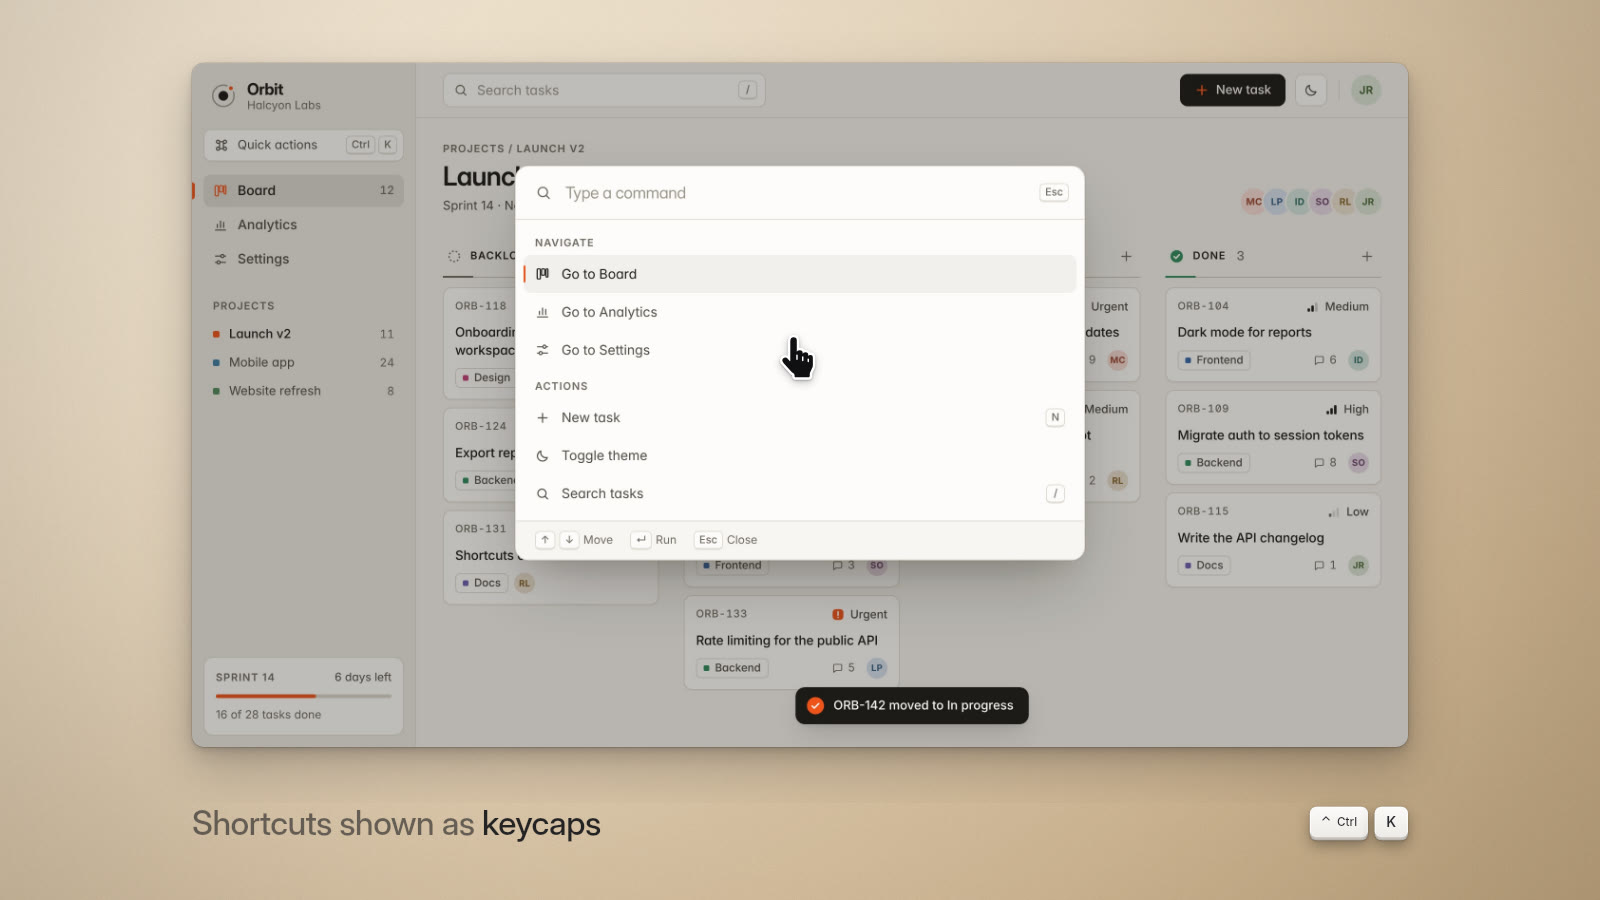
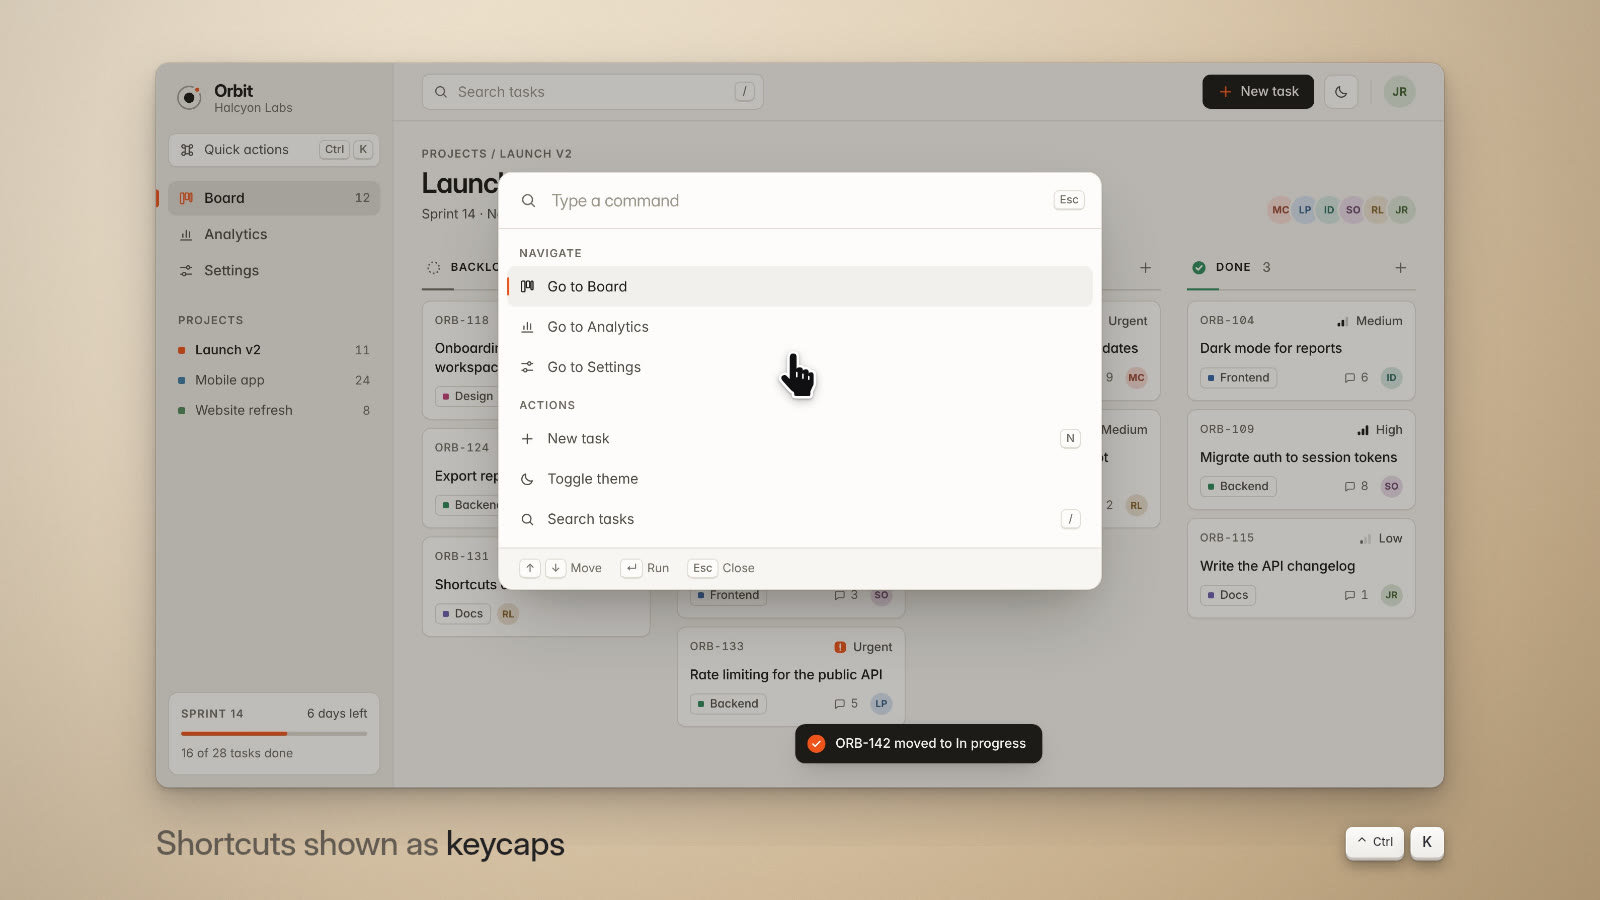
Make the caption band only as high as its lines need

Changed region(s): [[0.0938, 0.0622, 0.9062, 0.9644], [0.4688, 0.3733, 0.5312, 0.4356], [0.2812, 0.0933, 0.3438, 0.1244]]

diff --git a/src/render/scene.ts b/src/render/scene.ts
@@ -15,7 +15,15 @@ import {
   type CameraTrack,
   type FitRegion,
 } from './camera.ts';
-import { bandAt, bandTrack, planCaptions, type CaptionCue } from './captions.ts';
+import {
+  bandAt,
+  bandTrack,
+  CAPTION_WIDTH,
+  captionMeasure,
+  layoutCaption,
+  planCaptions,
+  type CaptionCue,
+} from './captions.ts';
 import { computeLayout, type CursorFrame, type FrameInput, type Layout } from './compositor.ts';
 import { clickMarks, computeCursor, type ClickMark, type CursorTrack } from './cursor.ts';
 import { resolveOptions, type ResolvedOptions } from './defaults.ts';
@@ -98,7 +106,7 @@ export function buildScene(session: Session, options?: RenderOptions, extraTime?
   const { cues, groups } = planCaptions(
     events.filter((e): e is TimedEvent<CaptionEvent> => e.type === 'caption'),
   );
-  const band = cues.length ? bandLayout(layout, resolved.captions.position) : null;
+  const band = captionBand(cues, layout, resolved);
   const camera = computeCamera(
     times,
     zooms,
@@ -138,6 +146,26 @@ export function buildScene(session: Session, options?: RenderOptions, extraTime?
     bandOpen: bandTrack(times, groups),
     frameIndex,
   };
+}
+
+/**
+ * Band geometry for the captions, or null without captions. The band has the height for
+ * one line unless a caption needs two lines.
+ */
+function captionBand(
+  cues: CaptionCue[],
+  layout: Layout,
+  options: ResolvedOptions,
+): BandLayout | null {
+  if (cues.length === 0) return null;
+  const { position, fontFamily, fontSize } = options.captions;
+  const measure = captionMeasure(fontFamily);
+  const band = bandLayout(layout, position, 1);
+  const width = band.window.width * CAPTION_WIDTH;
+  const lines = cues.map(
+    (cue) => layoutCaption(cue.text, measure, width, fontSize * layout.unit).lines.length,
+  );
+  return Math.max(...lines) > 1 ? bandLayout(layout, position, 2) : band;
 }
 
 /**

diff --git a/src/render/stage.ts b/src/render/stage.ts
@@ -14,9 +14,10 @@ export interface StageTransform {
 export const IDENTITY: StageTransform = { scale: 1, x: 0, y: 0 };
 
 /**
- * Band height as a fraction of the short side of the output.
+ * Band height as a fraction of the short side of the output, for captions of one line
+ * and for captions of two lines.
  */
-const BAND = 0.17;
+const BAND = [0.125, 0.17];
 
 /**
  * Where things go when the caption band is fully open.
@@ -38,11 +39,12 @@ export interface BandLayout {
 /**
  * The band takes the place of the padding on its side and grows it to BAND of the short
  * side; the window (chrome and shadow included) scales down uniformly to fit the rest.
+ * `lines` is the line count of the tallest caption: the band is only as high as it needs.
  */
-export function bandLayout(layout: Layout, side: 'bottom' | 'top'): BandLayout {
+export function bandLayout(layout: Layout, side: 'bottom' | 'top', lines = 2): BandLayout {
   const { width: W, height: H } = layout.size;
   const pad = layout.padding;
-  const height = BAND * Math.min(W, H);
+  const height = BAND[lines > 1 ? 1 : 0] * Math.min(W, H);
   const w0 = layout.window;
   const availW = W - 2 * pad;
   const availH = H - height - pad;

diff --git a/src/render/captions.ts b/src/render/captions.ts
@@ -1,4 +1,4 @@
-import type { SKRSContext2D } from '@napi-rs/canvas';
+import { createCanvas, type SKRSContext2D } from '@napi-rs/canvas';
 import type { CaptionEvent } from '../types.ts';
 import { rgba, type Rgba } from './color.ts';
 import { clamp, easing, smoothstep } from './easing.ts';
@@ -241,8 +241,25 @@ const easeOutQuart = (t: number) => 1 - (1 - clamp(t, 0, 1)) ** 4;
 const easeOutCubic = (t: number) => 1 - (1 - clamp(t, 0, 1)) ** 3;
 const sweep = easing('smooth');
 
-export function captionFont(style: CaptionStyle, size: number): string {
+export function captionFont(style: Pick<CaptionStyle, 'family'>, size: number): string {
   return `500 ${size}px "${style.family}"`;
+}
+
+/**
+ * Share of the window width that a caption can take.
+ */
+export const CAPTION_WIDTH = 0.72;
+
+/**
+ * Width of text in the caption font, for `layoutCaption`.
+ */
+export function captionMeasure(family: string): (text: string, size: number) => number {
+  const context = createCanvas(4, 4).getContext('2d');
+  return (text, size) => {
+    context.font = captionFont({ family }, size);
+    context.letterSpacing = tracking(size);
+    return context.measureText(text).width;
+  };
 }
 
 /**

diff --git a/src/render/compositor.ts b/src/render/compositor.ts
@@ -3,11 +3,11 @@ import type { CursorStyle, Rect, Size, SpotlightEvent } from '../types.ts';
 import type { CameraState } from './camera.ts';
 import { luminance, parseColor, rgba, type Rgba } from './color.ts';
 import {
-  captionFont,
+  CAPTION_WIDTH,
   captionHeight,
+  captionMeasure,
   drawCaption,
   layoutCaption,
-  tracking,
   type CaptionCue,
   type CaptionLines,
   type CaptionStyle,
@@ -524,14 +524,13 @@ export class Compositor {
     let lines = this.captionLines.get(cue);
     if (!lines) {
       const style = this.captionStyle;
-      const m = createCanvas(4, 4).getContext('2d');
-      const measure = (text: string, size: number) => {
-        m.font = captionFont(style, size);
-        m.letterSpacing = tracking(size);
-        return m.measureText(text).width;
-      };
       const width = this.band ? this.band.window.width : this.layout.window.width;
-      lines = layoutCaption(cue.text, measure, width * 0.72, style.fontSize);
+      lines = layoutCaption(
+        cue.text,
+        captionMeasure(style.family),
+        width * CAPTION_WIDTH,
+        style.fontSize,
+      );
       this.captionLines.set(cue, lines);
     }
     return lines;

diff --git a/test/render/render.test.ts b/test/render/render.test.ts
@@ -195,6 +195,19 @@ test('the click color has the most contrast against the page under the click', (
   assert.equal(adaptiveClickColor(lum('#2563eb')).r, 255);
 });
 
+test('the caption band is lower when every caption fits on one line', () => {
+  const caption = (text: string) => ({ type: 'caption' as const, t: 100, duration: 1000, text });
+  const scene = (text: string) => buildScene({ ...session, events: [caption(text)] });
+  const one = scene('Create a **new project**').band!;
+  const two = scene(
+    'Give it a name. The camera stays on the cursor while you type, so nothing is missed.',
+  ).band!;
+  assert.ok(Math.abs(one.height - 0.125 * 1080) < 1e-9, `one line: ${one.height}`);
+  assert.ok(Math.abs(two.height - 0.17 * 1080) < 1e-9, `two lines: ${two.height}`);
+  assert.ok(one.window.width > two.window.width);
+  assert.equal(buildScene({ ...session, events: [] }).band, null);
+});
+
 test('a fit zoom fills the whole output in camera mode and the frame box in crop mode', () => {
   const zoom = {
     type: 'zoom' as const,

diff --git a/skills/autokast/SKILL.md b/skills/autokast/SKILL.md
@@ -170,11 +170,13 @@ moment has motion or something new to read.
 - Keep a caption to one line: about 60 characters. Write a short sentence, with no number.
 - A viewer needs about 3 s to read a caption and see the action. Make each part at least
   that long; the limit of one fifth for holds does not apply to a captioned tour.
-- While a caption shows, the window is smaller and the view above the caption is wider than
-  the video: about 15:7 for a 16:9 video. A `zoomTo` without `scale` or `level` keeps the
-  whole target in that view, so a 16:9 target shows more of the page at its sides. Give the
-  target the shape of the view, for example `{ x: 0, y: 28, width: 960, height: 448 }` with
-  `padding: 0`, or use a `level`.
+- The space for captions is as high as one line needs. It gets higher, and the window
+  smaller, when a caption needs two lines.
+- While a caption shows, the view above the caption is wider than the video: about 2:1 for
+  a 16:9 video. A `zoomTo` without `scale` or `level` keeps the whole target in that view,
+  so a 16:9 target shows more of the page at its sides. Give the target the shape of the
+  view, for example `{ x: 0, y: 28, width: 960, height: 472 }` with `padding: 0`, or use a
+  `level`.
 
 **State**
 
